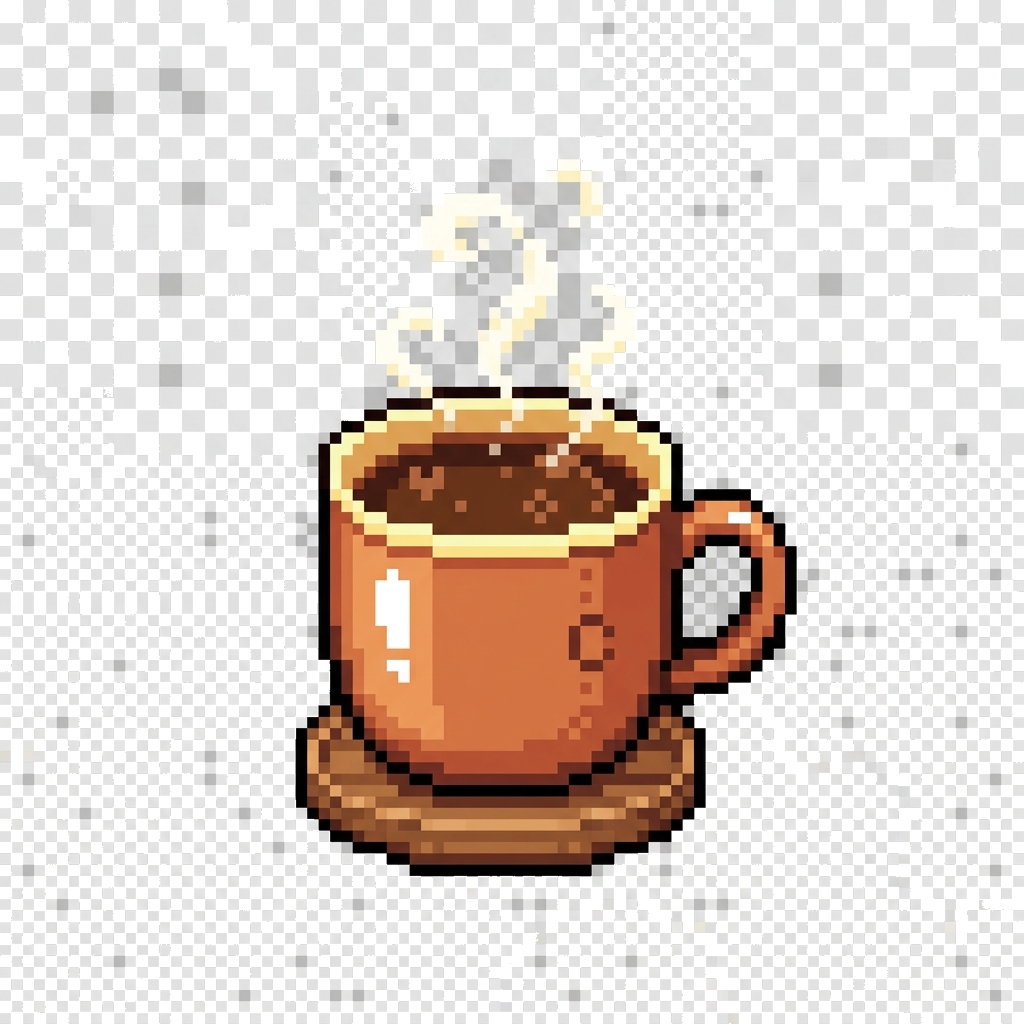
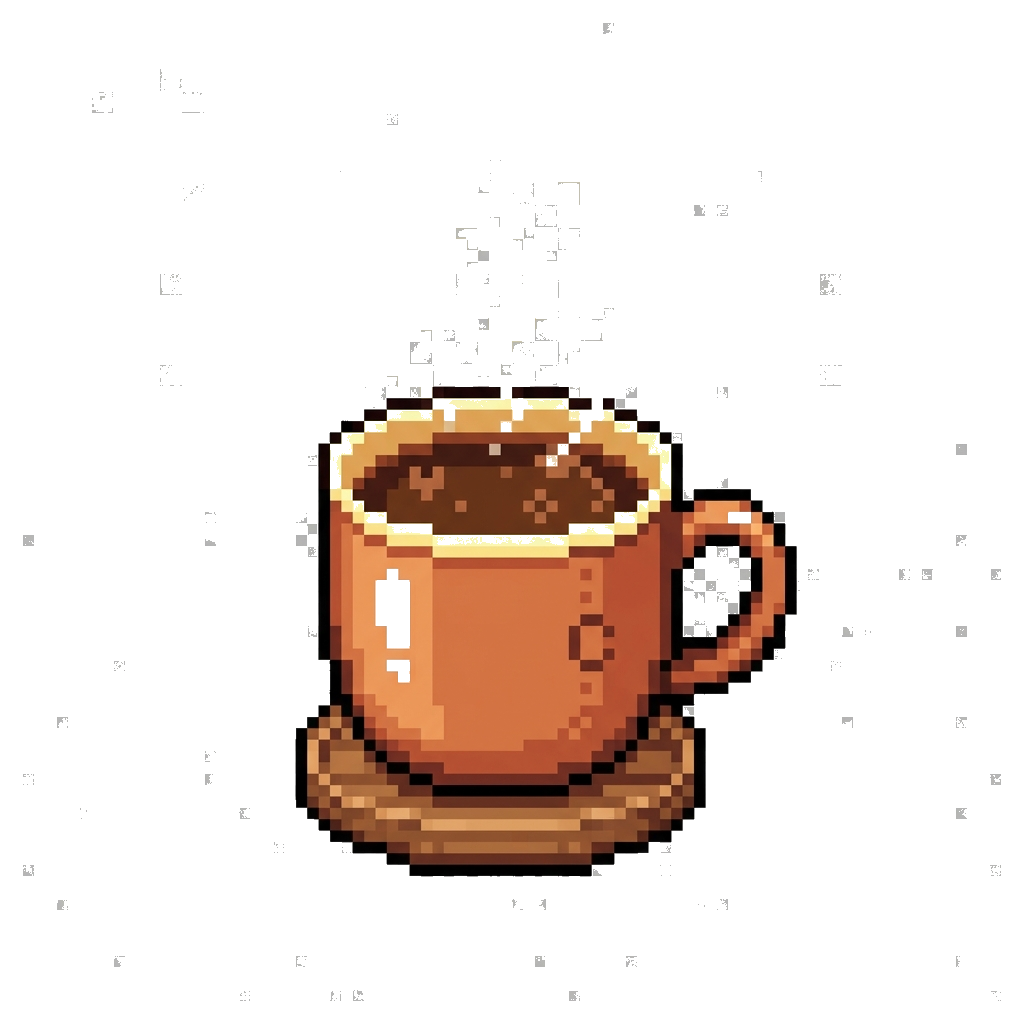
Cosmetic: Move camera position and refine coffee cup background transparency

diff --git a/index.html b/index.html
@@ -2149,7 +2149,7 @@
                 entities: [
                     { type: 'NPC', id: 'CHEN_AFAR', class: 'npc-chen', x: 800, y: 'var(--ground-y)', text: '🔍 與 服務生陳阿發 交談 (沈默寡言，看過火車上許多不為人知的角落)' },
                     { type: 'NPC', id: 'ZHAO', class: 'npc-zhao', x: 2200, y: 'var(--ground-y)', text: '🔍 與 趙福生 交談 (外表是一位談吐文雅的富商，但眼神中偶爾閃過一絲令人不安的銳利。)' },
-                    { type: 'ITEM', id: 'CLUE_CAMERA', text: '🔍 調查：桌上的萊卡相機', x: 600, y: '70%', clueName: "萊卡相機", 
+                    { type: 'ITEM', id: 'CLUE_CAMERA', text: '🔍 調查：桌上的萊卡相機', x: 2836, y: '66%', clueName: "萊卡相機", 
                       playerReceived: "江明的萊卡相機。底片槽是空的，快門旁有細微指紋痕跡。", 
                       truthVersion: "江明用相機拍下手稿內容作為備份，底片被趙福生取走。",
                       imgSrc: "assets/clues/clue_camera.png" },
